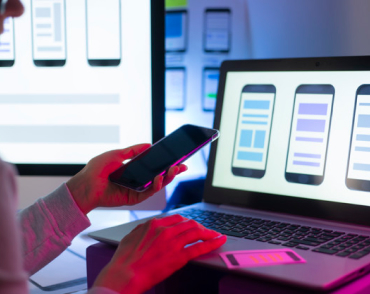
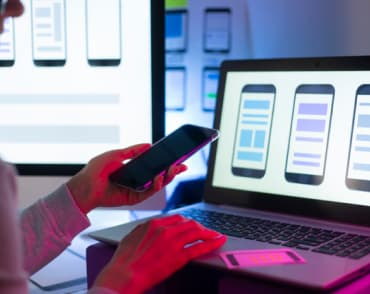
add box-shadow and optimize jpeg images

diff --git a/css/style.css b/css/style.css
@@ -262,6 +262,8 @@
   .ourteam-box {
     padding-top: 30px;
     padding-bottom: 30px;
+    border-radius: 0px 0px 4px 4px;
+    box-shadow: 0px 1px 3px 0px rgba(0, 0, 0, 0.12), 0px 1px 1px 0px rgba(0, 0, 0, 0.14), 0px 2px 1px 0px rgba(0, 0, 0, 0.20);
   }
 
   .ourteam-text {

diff --git a/css/portfolio.css b/css/portfolio.css
@@ -61,6 +61,7 @@
    padding-bottom: 20px;
    border: 1px solid #EEE;
    background: #FFF;
+   box-shadow: 0px 1px 1px 0px rgba(0, 0, 0, 0.12), 0px 4px 4px 0px rgba(0, 0, 0, 0.06), 1px 4px 6px 0px rgba(0, 0, 0, 0.16);
  }
 
  .main-img {
